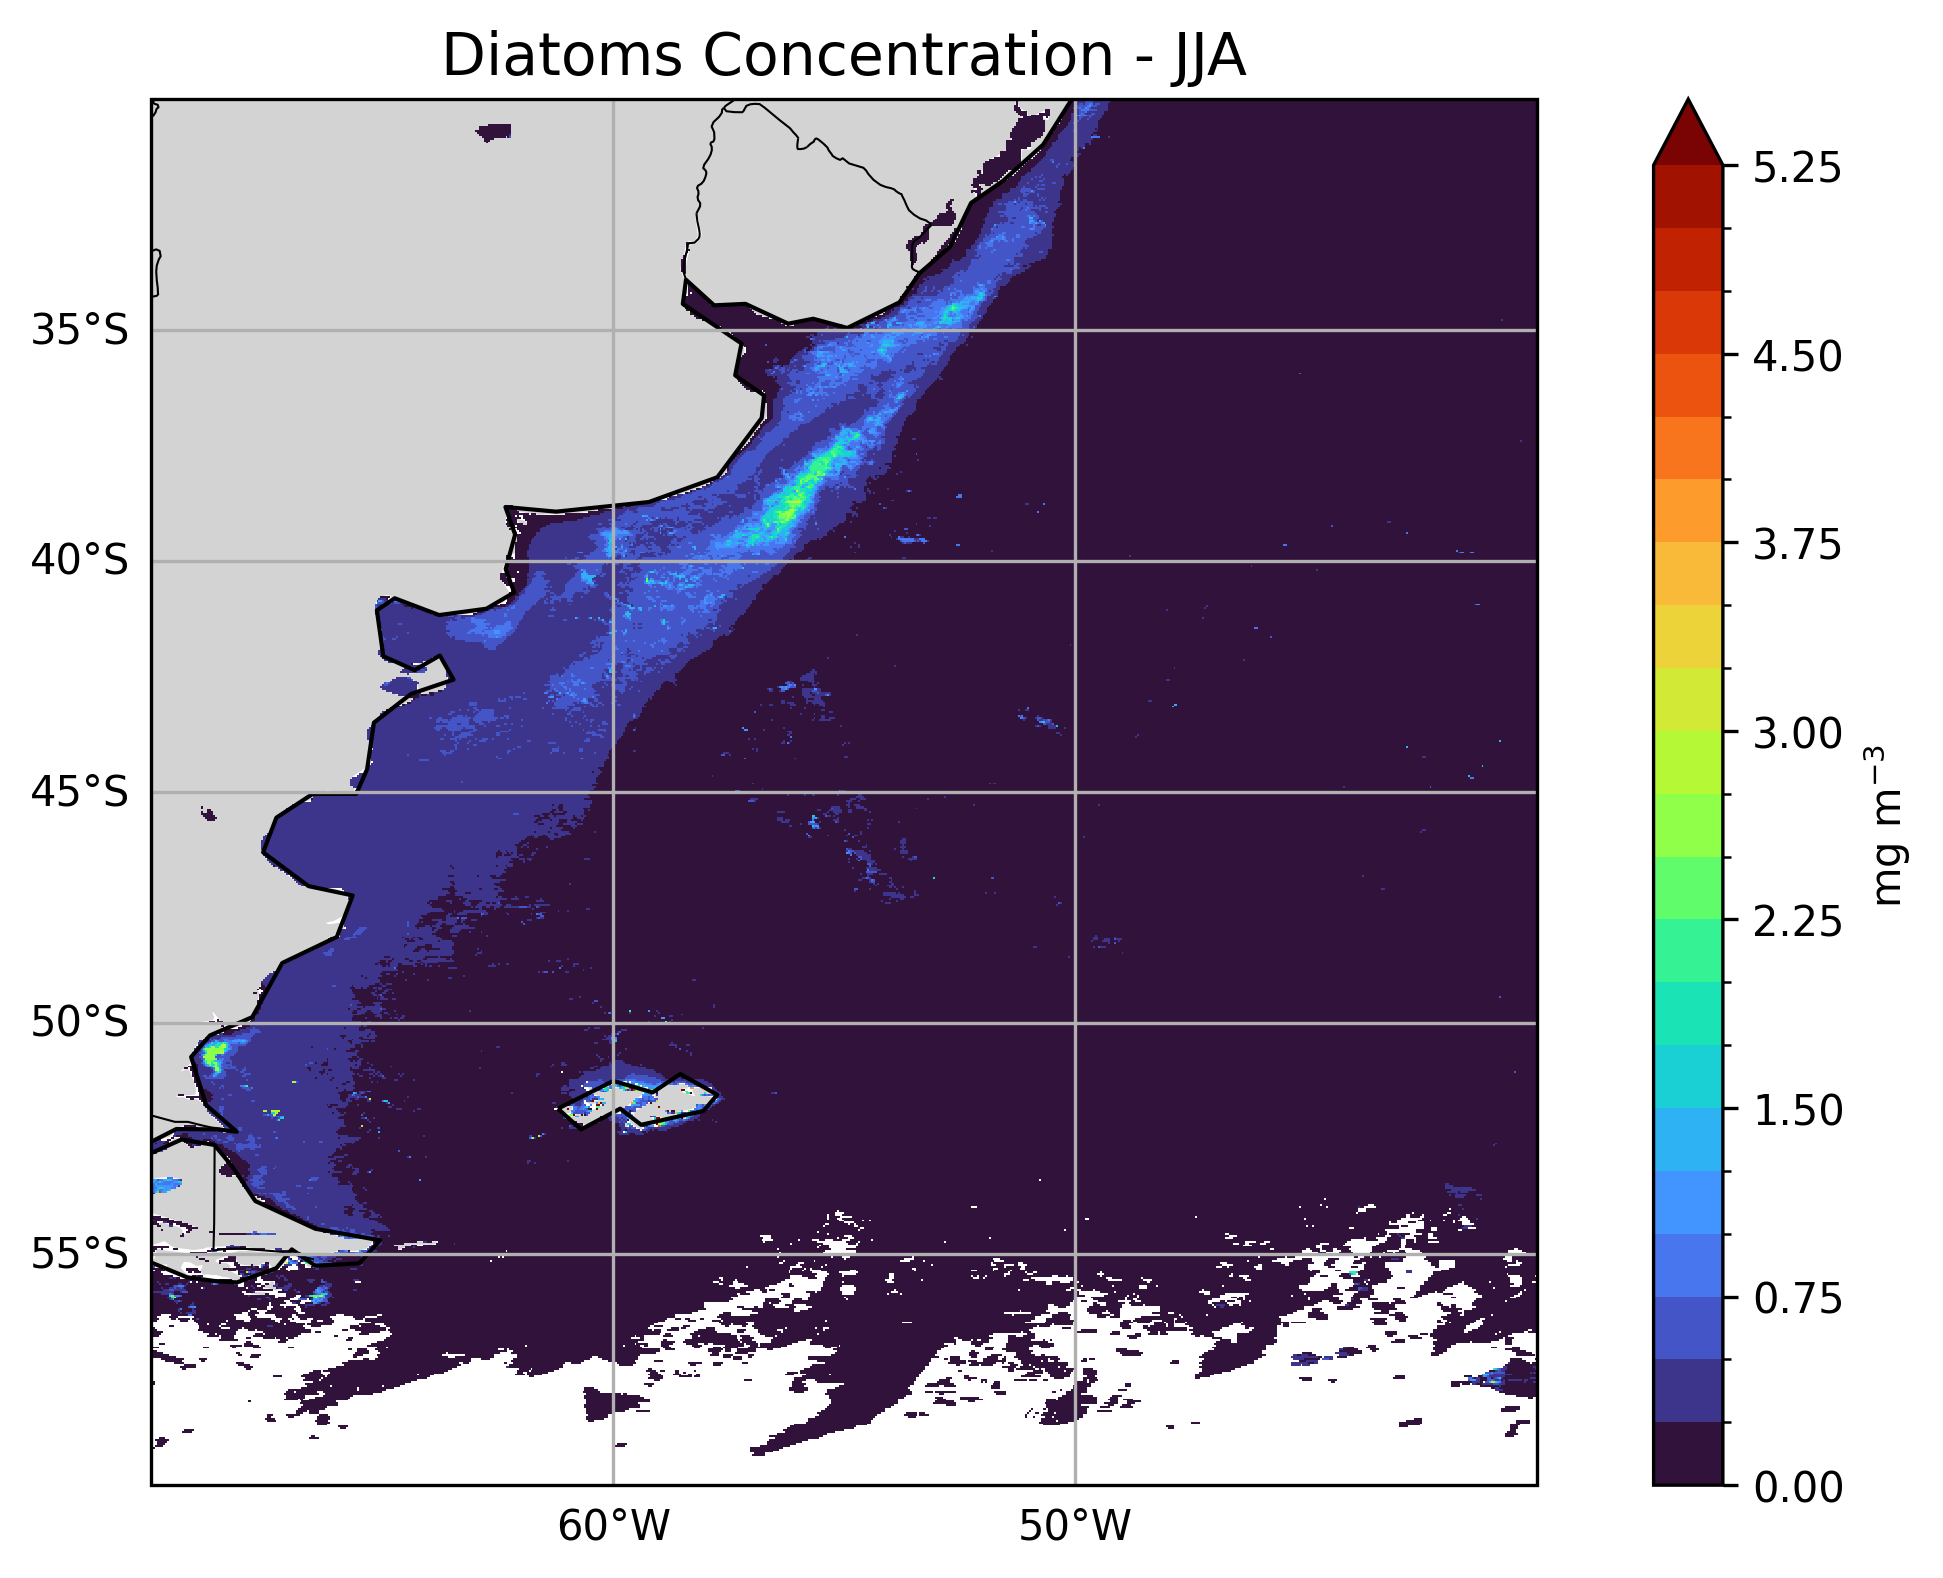
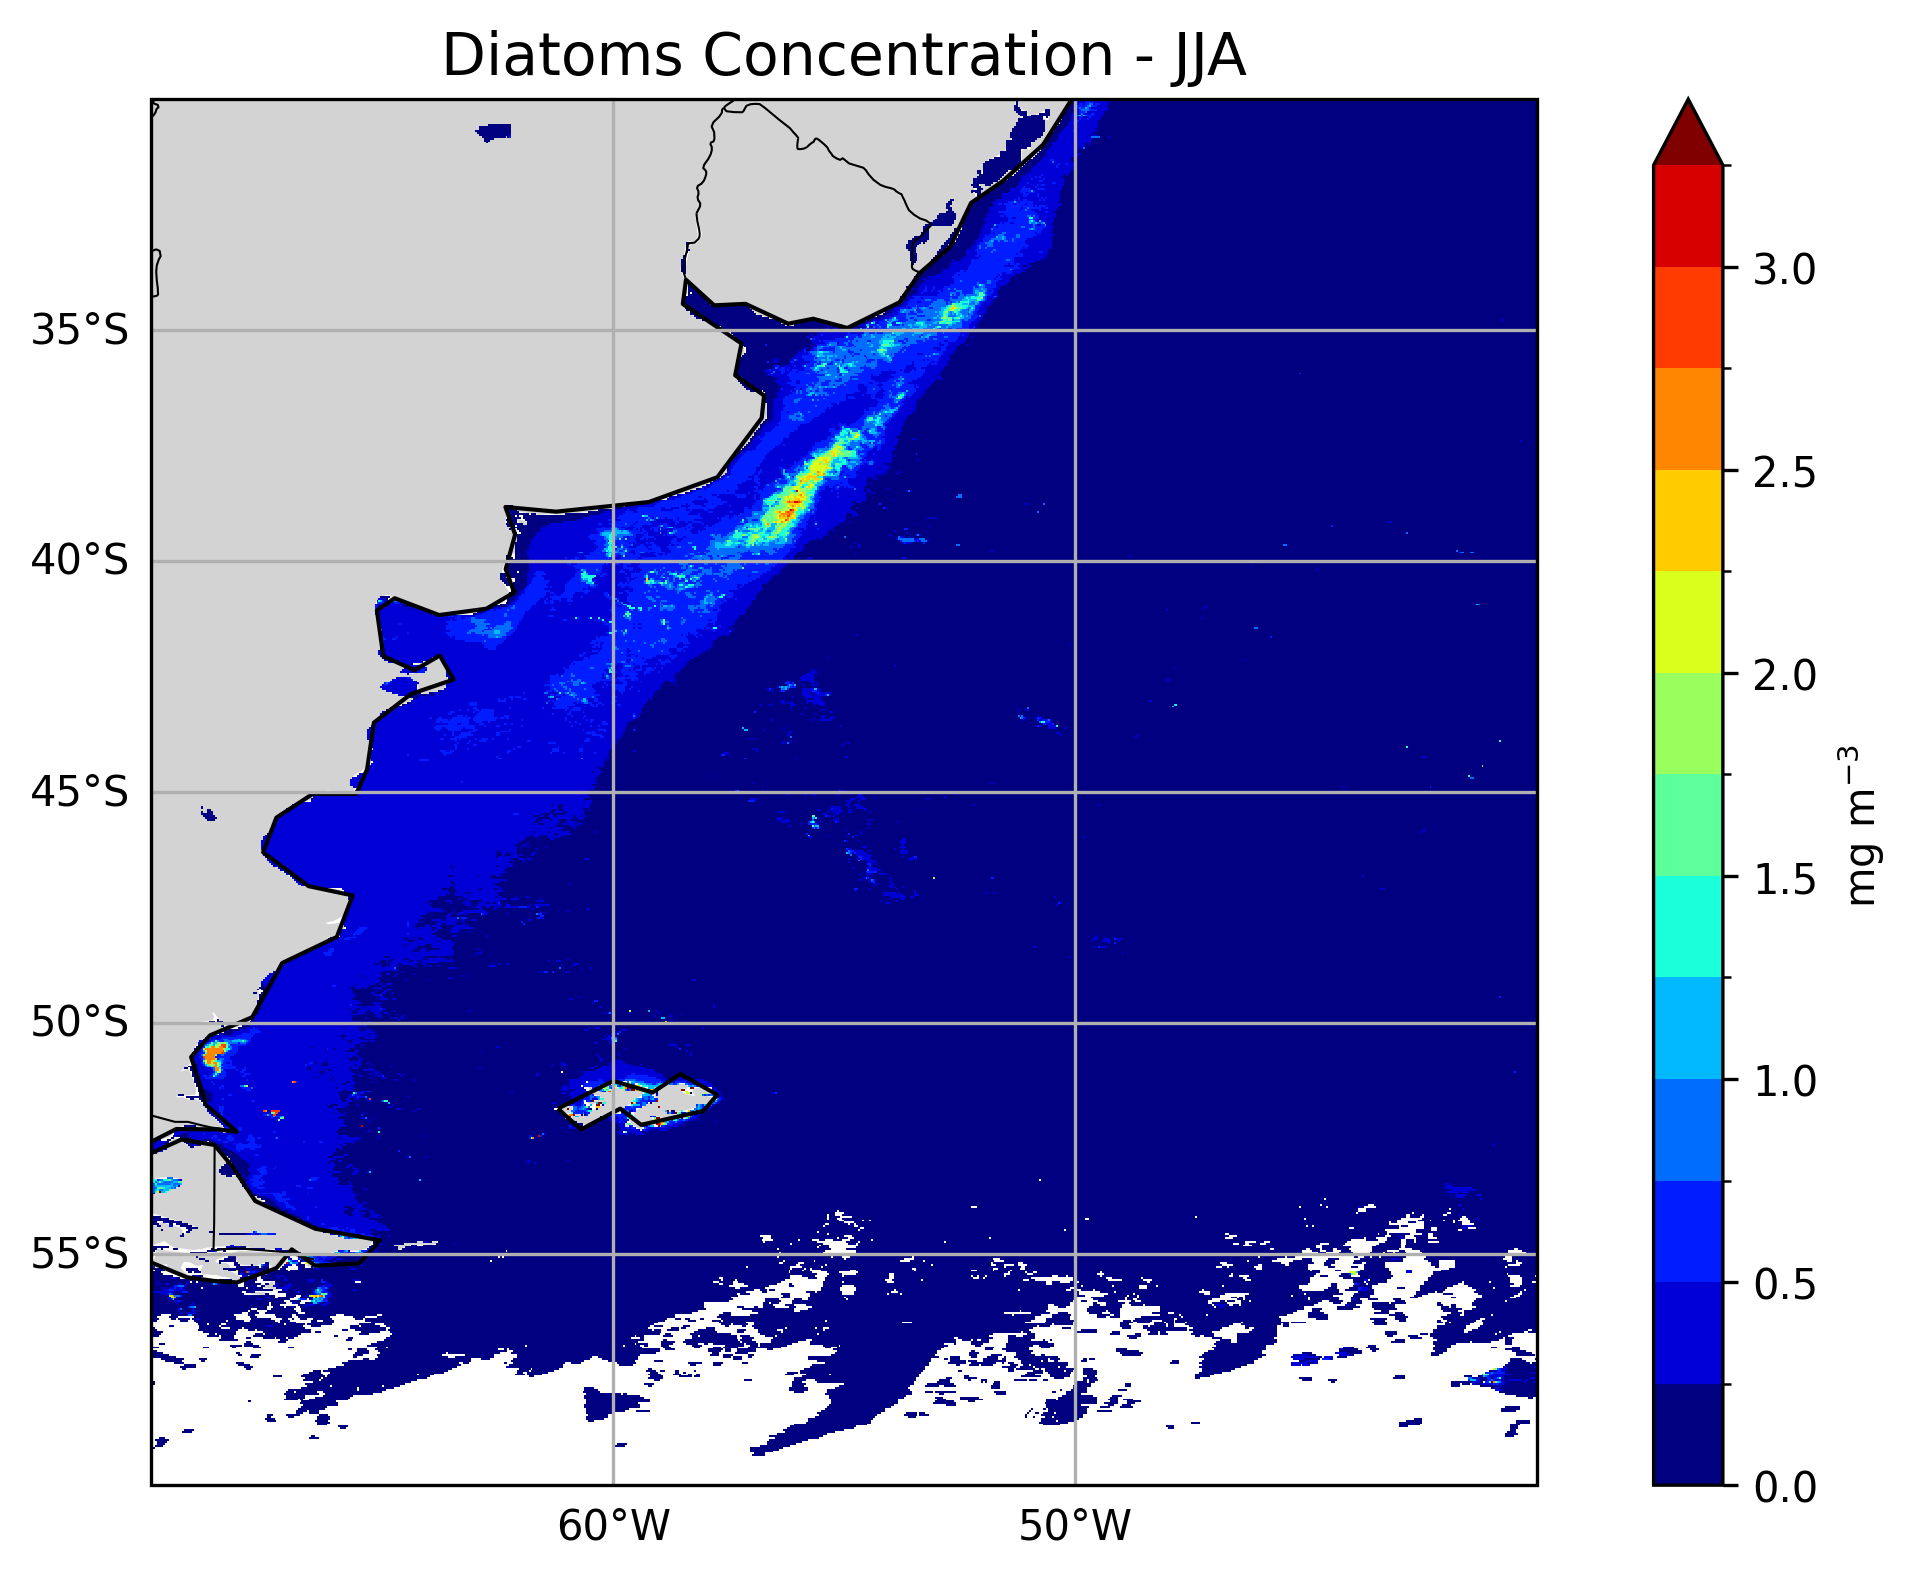
Add seasonal climatology analysis script for diatom concentration

diff --git a/Scripts/analyse_group_vars.py b/Scripts/analyse_group_vars.py
@@ -1,8 +1,11 @@
+import sys
+import os
+sys.path.append(os.path.dirname(os.path.dirname(os.path.abspath(__file__))))
+
 import numpy as np
 import xarray as xr
 from ClimOcean.climocean import ClimOcean
 import cmocean.cm as cmo
-import os
 
 # Load dataset
 file_path = r'D:\Users\Mateus Francisco\OneDrive\Documentos\UFPE\Artigos\artigo_sdena_co2\Data\DIATO_cmems_obs-oc_glo_bgc-plankton_my_l4-multi-4km_P1M_1757962746741.nc'
@@ -16,10 +19,10 @@ variable = 'DIATO'
 latitude = ds['latitude']
 longitude = ds['longitude']
 extent = [-70, -40, -60, -30]
-colormap = 'turbo'
+colormap = 'jet'
 colorbar_label = 'mg m$^{-3}$'
 vmin = 0
-vmax = 5
+vmax = 3
 
 # Output directory for seasonal means
 output_dir = r'D:\Users\Mateus Francisco\OneDrive\Documentos\UFPE\Artigos\artigo_sdena_co2\Results\Seasonal_mean'
